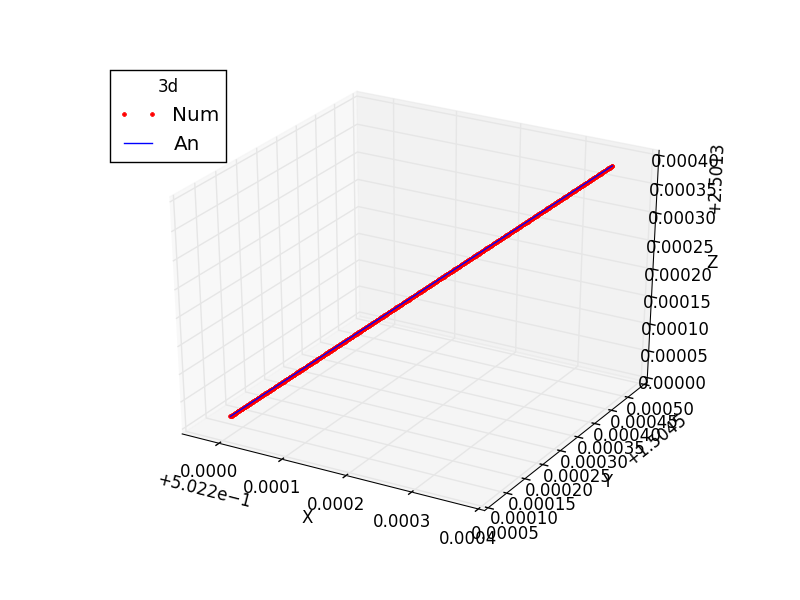
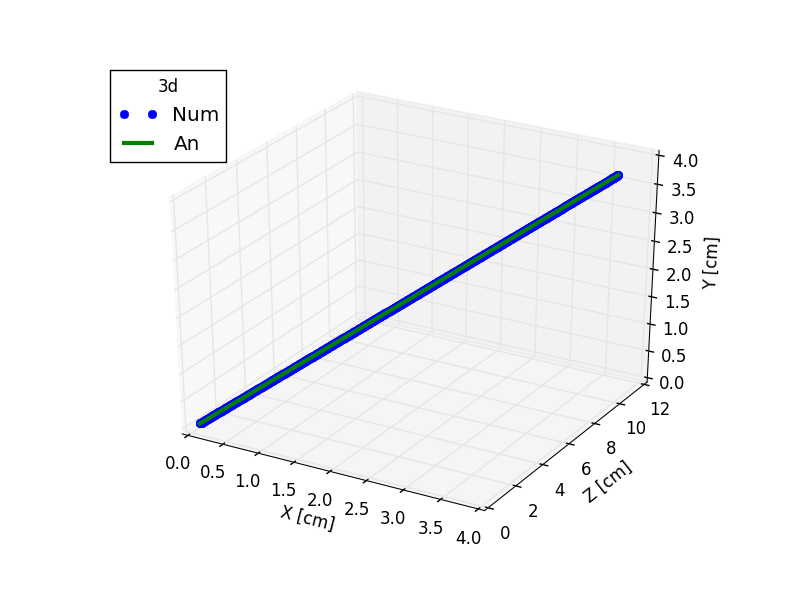
Single particle in free space example update

diff --git a/examples/single_particle_in_free_space/plot.py b/examples/single_particle_in_free_space/plot.py
@@ -95,45 +95,54 @@ def plot_trajectories( num , an ):
 def plot_3d( num, an ):
     fig = plt.figure()
     ax = fig.gca( projection='3d' )
-    ax.plot( num['x'], num['y'], num['z'], '.r', label = "Num" )
-    ax.plot( an['x'], an['y'], an['z'], label = "An" )
-    ax.set_xlabel('X') 
-    ax.set_ylabel('Y') 
-    ax.set_zlabel('Z')
+    ax.plot( num['x'], num['z'], num['y'], 'b.', markersize = 12, label = "Num" )
+    ax.plot( an['x'], an['z'], an['y'],  'g-', linewidth = 3, label = "An" )
+    ax.set_xlabel('X [cm]') 
+    ax.set_ylabel('Z [cm]') 
+    ax.set_zlabel('Y [cm]')
     plt.legend( loc = 'upper left', title="3d" )
     #plt.show()
     print( 'Saving 3d trajectory plot to "3d.png"' )
     plt.savefig('3d.png')
 
 def plot_2d( num, an ):
-    plt.figure(1)
+    plt.figure( figsize=( 16, 6 ) )
+    plt.subplots_adjust( left = None, bottom = None,
+                         right = None, top = None,
+                         wspace = 0.4, hspace = None )
     #XY
-    plt.subplot(131)
+    ax = plt.subplot(131)
     plt.plot( num['x'], num['y'],
               linestyle='', marker='o',
               label = "Num" )
     plt.plot( an['x'], an['y'],
               linestyle='-', marker='', lw = 2,
               label = "An" )
-    plt.legend( loc = 'upper right', title="XY" )
-    #XZ
-    plt.subplot(132)
-    plt.plot( num['x'], num['z'],
+    ax.set_xlabel('X [cm]') 
+    ax.set_ylabel('Y [cm]') 
+    plt.legend( loc = 'upper left', title="XY" )
+    #ZX
+    ax = plt.subplot(132)
+    plt.plot( num['z'], num['x'],
         linestyle='', marker='o',
         label = "Num" )
-    plt.plot( an['x'], an['z'],
+    plt.plot( an['z'], an['x'],
               linestyle='-', marker='', lw = 2,
               label = "An" )
-    plt.legend( loc = 'upper right', title="XZ" )
-    #YZ
-    plt.subplot(133)
-    plt.plot( num['y'], num['z'],
+    ax.set_xlabel('Z [cm]') 
+    ax.set_ylabel('X [cm]') 
+    plt.legend( loc = 'upper left', title="ZX" )
+    #ZY
+    ax = plt.subplot(133)
+    plt.plot( num['z'], num['y'],
         linestyle='', marker='o',
         label = "Num" )
-    plt.plot( an['y'], an['z'],
+    plt.plot( an['z'], an['y'],
               linestyle='-', marker='', lw = 2,
               label = "An" )
-    plt.legend( loc = 'upper right', title="YZ" )
+    ax.set_xlabel('Z [cm]') 
+    ax.set_ylabel('Y [cm]') 
+    plt.legend( loc = 'upper left', title="ZY" )
     print( 'Saving 2d trajectory projection plots to "2d.png"' )
     plt.savefig('2d.png')
     

diff --git a/examples/single_particle_in_free_space/estimates.py b/examples/single_particle_in_free_space/estimates.py
@@ -1,0 +1,34 @@
+from math import *
+
+m = 9.8e-28
+q = 4.8e-10
+print( "q = {:.3e} [cgs]".format( q ) )
+print( "m = {:.3e} [g]".format( m ) )
+
+ev_to_cgs = 1.60218e-12
+E = 1000 * ev_to_cgs
+v = sqrt( 2 * E / m )
+print( "E = {:.3e} [eV] = {:.3e} [erg]".format( E / ev_to_cgs, E ) )
+print( "v = {:.3e} [cm/s]".format( v ) )
+print( "p = {:.3e} [g * cm/s]".format( v * m ) )
+
+z_distance = 10
+t = z_distance / v
+print( "z_distance = {:f} [cm]".format( z_distance ) )
+print( "t = {:.3e} [s]".format( t ) )
+
+sim_time = 6.0e-9
+n_of_steps = 1000
+dt = sim_time / n_of_steps
+print( "simulation_time = {:.3e} [s]".format( sim_time ) )
+print( "number_of_time_steps = {:d}".format( n_of_steps ) )
+print( "time_step_size = {:.3e} [s]".format( dt ) )
+
+# num_of_macro_particles = 1
+# macro_q = I * dt / num_of_macro_particles
+# macro_m = macro_q / q * m
+# macro_mean_momentum = macro_m * v
+# print( "num_of_macro_particles = {:d}".format( num_of_macro_particles ) )
+# print( "macro_q = {:.3e} [cgs]".format( macro_q ) )
+# print( "macro_m = {:.3e} [g]".format( macro_m ) )
+# print( "macro_mean_momentum = {:.3e} [g * cm / s]".format( macro_mean_momentum ) )
